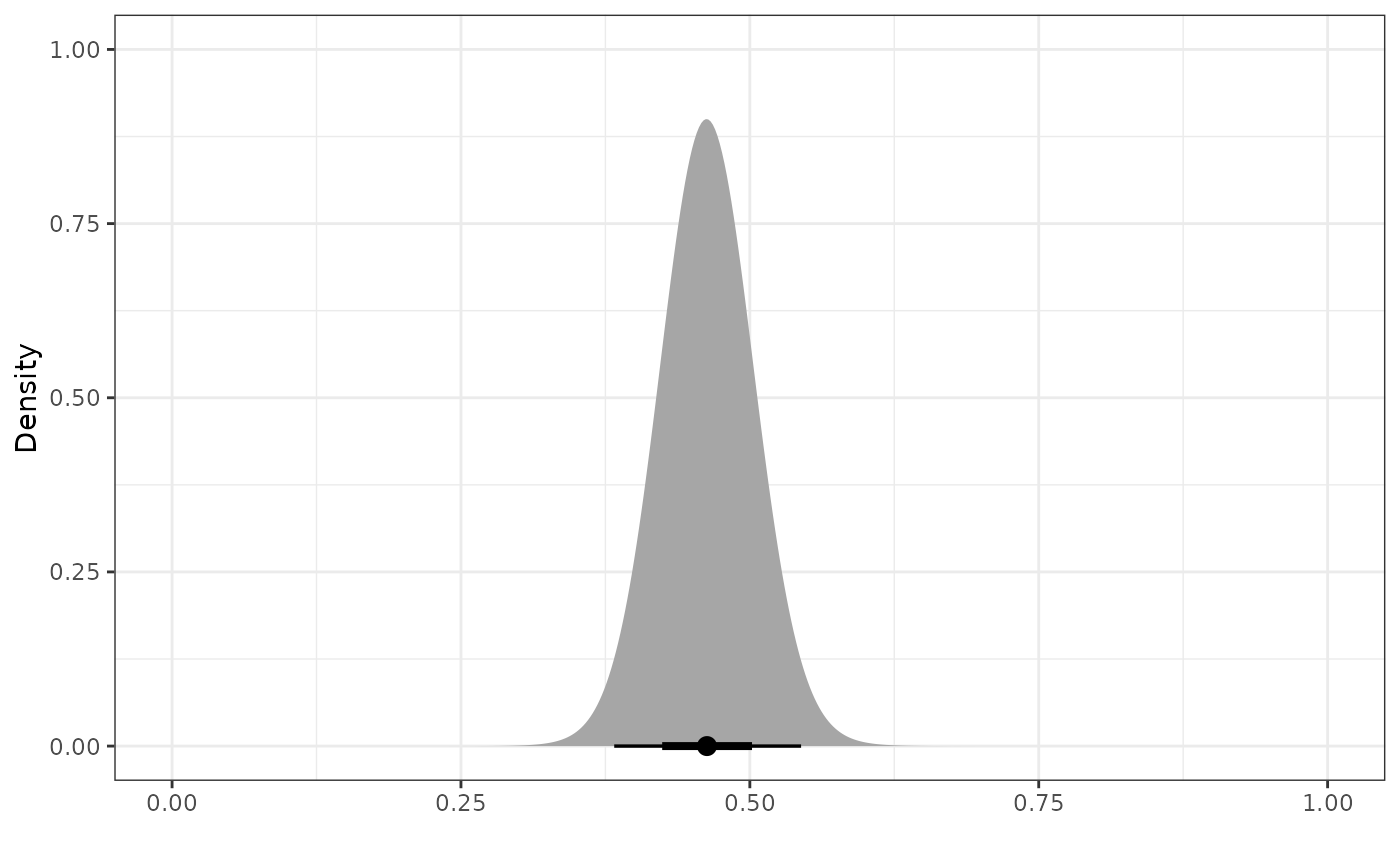
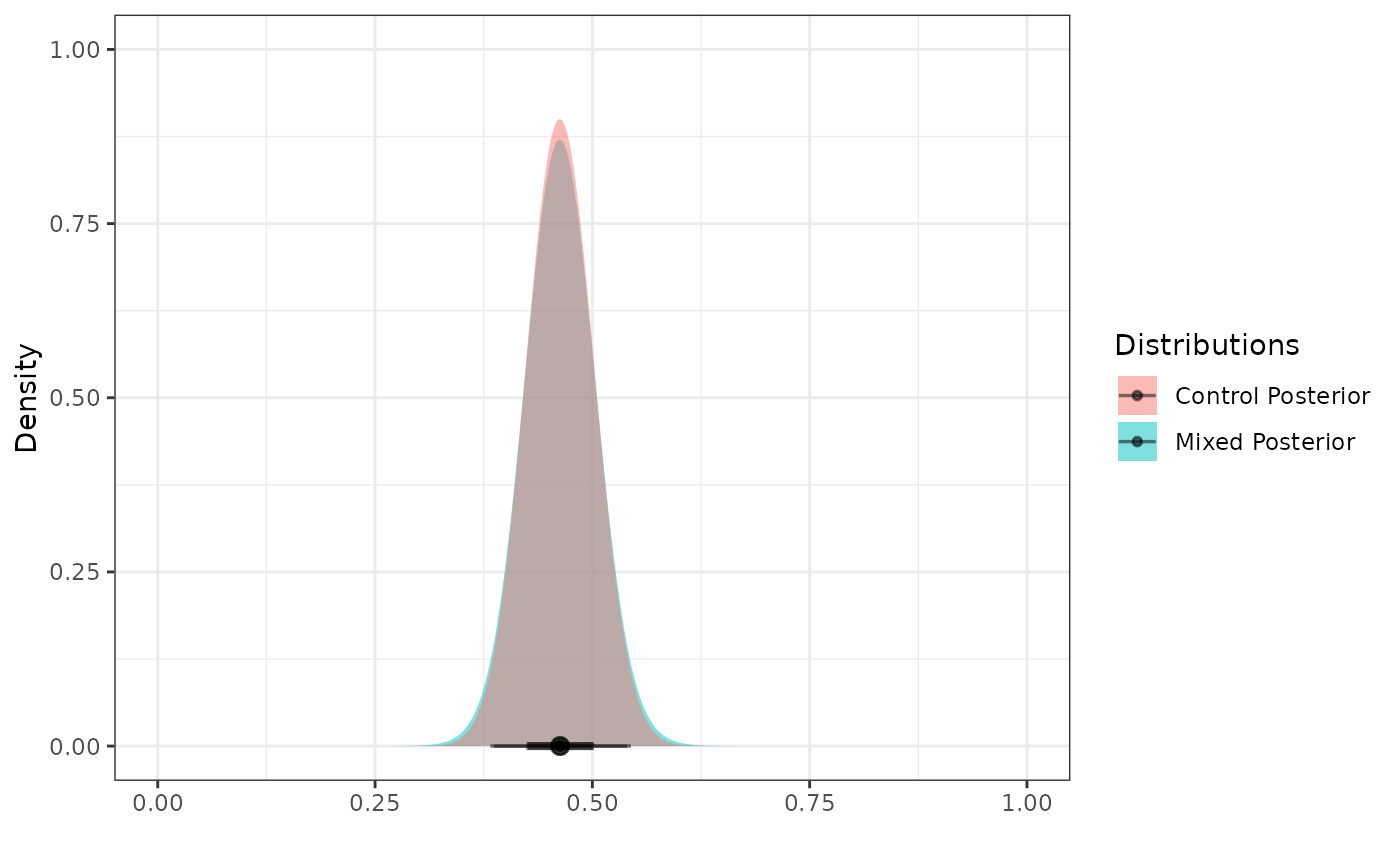
Deploying to gh-pages from @ GSK-Biostatistics/beastt@24b3213e9f87e37dad4a760fd4961f524cdbebdf 🚀

diff --git a/reference/robustify_norm.html b/reference/robustify_norm.html
@@ -1,0 +1,121 @@
+<!DOCTYPE html>
+<!-- Generated by pkgdown: do not edit by hand --><html lang="en"><head><meta http-equiv="Content-Type" content="text/html; charset=UTF-8"><meta charset="utf-8"><meta http-equiv="X-UA-Compatible" content="IE=edge"><meta name="viewport" content="width=device-width, initial-scale=1.0"><title>Robustify Normal Distributions — robustify_norm • beastt</title><!-- jquery --><script src="https://cdnjs.cloudflare.com/ajax/libs/jquery/3.7.1/jquery.min.js" integrity="sha512-v2CJ7UaYy4JwqLDIrZUI/4hqeoQieOmAZNXBeQyjo21dadnwR+8ZaIJVT8EE2iyI61OV8e6M8PP2/4hpQINQ/g==" crossorigin="anonymous" referrerpolicy="no-referrer"></script><!-- Bootstrap --><link rel="stylesheet" href="https://cdnjs.cloudflare.com/ajax/libs/twitter-bootstrap/3.4.1/css/bootstrap.min.css" integrity="sha256-bZLfwXAP04zRMK2BjiO8iu9pf4FbLqX6zitd+tIvLhE=" crossorigin="anonymous"><script src="https://cdnjs.cloudflare.com/ajax/libs/twitter-bootstrap/3.4.1/js/bootstrap.min.js" integrity="sha256-nuL8/2cJ5NDSSwnKD8VqreErSWHtnEP9E7AySL+1ev4=" crossorigin="anonymous"></script><!-- bootstrap-toc --><link rel="stylesheet" href="../bootstrap-toc.css"><script src="../bootstrap-toc.js"></script><!-- Font Awesome icons --><link rel="stylesheet" href="https://cdnjs.cloudflare.com/ajax/libs/font-awesome/5.12.1/css/all.min.css" integrity="sha256-mmgLkCYLUQbXn0B1SRqzHar6dCnv9oZFPEC1g1cwlkk=" crossorigin="anonymous"><link rel="stylesheet" href="https://cdnjs.cloudflare.com/ajax/libs/font-awesome/5.12.1/css/v4-shims.min.css" integrity="sha256-wZjR52fzng1pJHwx4aV2AO3yyTOXrcDW7jBpJtTwVxw=" crossorigin="anonymous"><!-- clipboard.js --><script src="https://cdnjs.cloudflare.com/ajax/libs/clipboard.js/2.0.6/clipboard.min.js" integrity="sha256-inc5kl9MA1hkeYUt+EC3BhlIgyp/2jDIyBLS6k3UxPI=" crossorigin="anonymous"></script><!-- headroom.js --><script src="https://cdnjs.cloudflare.com/ajax/libs/headroom/0.11.0/headroom.min.js" integrity="sha256-AsUX4SJE1+yuDu5+mAVzJbuYNPHj/WroHuZ8Ir/CkE0=" crossorigin="anonymous"></script><script src="https://cdnjs.cloudflare.com/ajax/libs/headroom/0.11.0/jQuery.headroom.min.js" integrity="sha256-ZX/yNShbjqsohH1k95liqY9Gd8uOiE1S4vZc+9KQ1K4=" crossorigin="anonymous"></script><!-- pkgdown --><link href="../pkgdown.css" rel="stylesheet"><script src="../pkgdown.js"></script><meta property="og:title" content="Robustify Normal Distributions — robustify_norm"><meta property="og:description" content="Adds vague normal component, where the level of vagueness is controlled by
+the n parameter"><!-- mathjax --><script src="https://cdnjs.cloudflare.com/ajax/libs/mathjax/2.7.5/MathJax.js" integrity="sha256-nvJJv9wWKEm88qvoQl9ekL2J+k/RWIsaSScxxlsrv8k=" crossorigin="anonymous"></script><script src="https://cdnjs.cloudflare.com/ajax/libs/mathjax/2.7.5/config/TeX-AMS-MML_HTMLorMML.js" integrity="sha256-84DKXVJXs0/F8OTMzX4UR909+jtl4G7SPypPavF+GfA=" crossorigin="anonymous"></script><!--[if lt IE 9]>
+<script src="https://oss.maxcdn.com/html5shiv/3.7.3/html5shiv.min.js"></script>
+<script src="https://oss.maxcdn.com/respond/1.4.2/respond.min.js"></script>
+<![endif]--></head><body data-spy="scroll" data-target="#toc">
+    
+
+    <div class="container template-reference-topic">
+      <header><div class="navbar navbar-default navbar-fixed-top" role="navigation">
+  <div class="container">
+    <div class="navbar-header">
+      <button type="button" class="navbar-toggle collapsed" data-toggle="collapse" data-target="#navbar" aria-expanded="false">
+        <span class="sr-only">Toggle navigation</span>
+        <span class="icon-bar"></span>
+        <span class="icon-bar"></span>
+        <span class="icon-bar"></span>
+      </button>
+      <span class="navbar-brand">
+        <a class="navbar-link" href="../index.html">beastt</a>
+        <span class="version label label-default" data-toggle="tooltip" data-placement="bottom" title="">0.0.0.9000</span>
+      </span>
+    </div>
+
+    <div id="navbar" class="navbar-collapse collapse">
+      <ul class="nav navbar-nav"><li>
+  <a href="../reference/index.html">Reference</a>
+</li>
+<li class="dropdown">
+  <a href="#" class="dropdown-toggle" data-toggle="dropdown" role="button" data-bs-toggle="dropdown" aria-expanded="false">
+    Articles
+     
+    <span class="caret"></span>
+  </a>
+  <ul class="dropdown-menu" role="menu"><li>
+      <a href="../articles/binary.html">Binary Endpoint Case - Borrowing from an External Control Arm</a>
+    </li>
+    <li>
+      <a href="../articles/continuous.html">Normal Endpoint Case with Assumed Known SD - Borrowing from an External Control Arm</a>
+    </li>
+    <li>
+      <a href="../articles/introduction.html">Package Introduction</a>
+    </li>
+  </ul></li>
+      </ul><ul class="nav navbar-nav navbar-right"></ul></div><!--/.nav-collapse -->
+  </div><!--/.container -->
+</div><!--/.navbar -->
+
+      
+
+      </header><div class="row">
+  <div class="col-md-9 contents">
+    <div class="page-header">
+    <h1>Robustify Normal Distributions</h1>
+    
+    <div class="hidden name"><code>robustify_norm.Rd</code></div>
+    </div>
+
+    <div class="ref-description">
+    <p>Adds vague normal component, where the level of vagueness is controlled by
+the <code>n</code> parameter</p>
+    </div>
+
+    <div id="ref-usage">
+    <div class="sourceCode"><pre class="sourceCode r"><code><span><span class="fu">robustify_norm</span><span class="op">(</span><span class="va">prior</span>, <span class="va">n</span>, weights <span class="op">=</span> <span class="fu"><a href="https://rdrr.io/r/base/c.html" class="external-link">c</a></span><span class="op">(</span><span class="fl">0.5</span>, <span class="fl">0.5</span><span class="op">)</span><span class="op">)</span></span></code></pre></div>
+    </div>
+
+    <div id="arguments">
+    <h2>Arguments</h2>
+    <dl><dt>prior</dt>
+<dd><p>Normal distributional object</p></dd>
+
+
+<dt>n</dt>
+<dd><p>Number of theoretical participants</p></dd>
+
+
+<dt>weights</dt>
+<dd><p>Vector of weights, where the first number corresponds to the
+informative component and the second is the vague</p></dd>
+
+</dl></div>
+    <div id="value">
+    <h2>Value</h2>
+    
+
+<p>mixture distribution</p>
+    </div>
+
+    <div id="ref-examples">
+    <h2>Examples</h2>
+    <div class="sourceCode"><pre class="sourceCode r"><code><span class="r-in"><span><span class="kw"><a href="https://rdrr.io/r/base/library.html" class="external-link">library</a></span><span class="op">(</span><span class="va"><a href="https://pkg.mitchelloharawild.com/distributional/" class="external-link">distributional</a></span><span class="op">)</span></span></span>
+<span class="r-in"><span><span class="fu">robustify_norm</span><span class="op">(</span><span class="fu"><a href="https://pkg.mitchelloharawild.com/distributional/reference/dist_normal.html" class="external-link">dist_normal</a></span><span class="op">(</span><span class="fl">0</span>,<span class="fl">1</span><span class="op">)</span>, n <span class="op">=</span> <span class="fl">15</span><span class="op">)</span></span></span>
+<span class="r-out co"><span class="r-pr">#&gt;</span> &lt;distribution[1]&gt;</span>
+<span class="r-out co"><span class="r-pr">#&gt;</span> [1] mixture(n=2)</span>
+</code></pre></div>
+    </div>
+  </div>
+  <div class="col-md-3 hidden-xs hidden-sm" id="pkgdown-sidebar">
+    <nav id="toc" data-toggle="toc" class="sticky-top"><h2 data-toc-skip>Contents</h2>
+    </nav></div>
+</div>
+
+
+      <footer><div class="copyright">
+  <p></p><p>Developed by Christina Fillmore, Ben Arancibia, Nate Bean, GlaxoSmithKline Research &amp; Development Limited.</p>
+</div>
+
+<div class="pkgdown">
+  <p></p><p>Site built with <a href="https://pkgdown.r-lib.org/" class="external-link">pkgdown</a> 2.0.9.</p>
+</div>
+
+      </footer></div>
+
+  
+
+
+  
+
+  </body></html>
+

diff --git a/articles/continuous.html b/articles/continuous.html
@@ -293,17 +293,14 @@ be a mixture of normal components. If any component of the prior is a
 <span class="math inline">\(t\)</span> distribution, the prior will be
 approximated with the mixture of two normal distributions.</p>
 <div class="sourceCode" id="cb8"><pre class="downlit sourceCode r">
-<code class="sourceCode R"><span><span class="va">prior_param</span> <span class="op">&lt;-</span> <span class="fu"><a href="https://pkg.mitchelloharawild.com/distributional/reference/parameters.html" class="external-link">parameters</a></span><span class="op">(</span><span class="va">pwr_prior</span><span class="op">)</span></span>
-<span><span class="va">mixed_prior</span> <span class="op">&lt;-</span> <span class="fu"><a href="https://pkg.mitchelloharawild.com/distributional/reference/dist_mixture.html" class="external-link">dist_mixture</a></span><span class="op">(</span><span class="va">pwr_prior</span>,</span>
-<span>                            <span class="fu"><a href="https://pkg.mitchelloharawild.com/distributional/reference/dist_normal.html" class="external-link">dist_normal</a></span><span class="op">(</span><span class="va">prior_param</span><span class="op">$</span><span class="va">mu</span>, <span class="fu"><a href="https://rdrr.io/r/base/MathFun.html" class="external-link">sqrt</a></span><span class="op">(</span><span class="va">prior_param</span><span class="op">$</span><span class="va">sigma</span><span class="op">^</span><span class="fl">2</span><span class="op">*</span><span class="va">n_external</span><span class="op">)</span><span class="op">)</span>,</span>
-<span>                            weights <span class="op">=</span>  <span class="fu"><a href="https://rdrr.io/r/base/c.html" class="external-link">c</a></span><span class="op">(</span><span class="fl">.5</span>, <span class="fl">.5</span><span class="op">)</span></span>
-<span><span class="op">)</span></span>
+<code class="sourceCode R"><span><span class="va">mixed_prior</span> <span class="op">&lt;-</span> <span class="fu"><a href="../reference/robustify_norm.html">robustify_norm</a></span><span class="op">(</span><span class="va">pwr_prior</span>, <span class="va">n_external</span><span class="op">)</span></span>
 <span></span>
 <span><span class="va">post_mixed</span> <span class="op">&lt;-</span> <span class="fu"><a href="../reference/calc_post_norm.html">calc_post_norm</a></span><span class="op">(</span><span class="va">ps_obj</span>,</span>
 <span>                             response <span class="op">=</span> <span class="va">y</span>, </span>
 <span>                             prior<span class="op">=</span> <span class="va">mixed_prior</span>,</span>
 <span>                             internal_sd <span class="op">=</span> <span class="va">sd_internal_control</span><span class="op">)</span></span>
-<span><span class="fu"><a href="../reference/plot_dist.html">plot_dist</a></span><span class="op">(</span><span class="va">post_mixed</span><span class="op">)</span></span></code></pre></div>
+<span><span class="fu"><a href="../reference/plot_dist.html">plot_dist</a></span><span class="op">(</span><span class="st">"Control Posterior"</span> <span class="op">=</span> <span class="va">post</span>, </span>
+<span>          <span class="st">"Mixed Posterior"</span> <span class="op">=</span> <span class="va">post_mixed</span><span class="op">)</span></span></code></pre></div>
 <p><img src="continuous_files/figure-html/unnamed-chunk-7-1.png" width="700"></p>
 <p>Lastly, we can also create a posterior distribution for the mean of
 the active treatment arm by reading the internal data directly into the
@@ -319,7 +316,10 @@ data.</strong></p>
 <span>                               response <span class="op">=</span> <span class="va">y</span>,</span>
 <span>                               prior <span class="op">=</span> <span class="fu"><a href="https://pkg.mitchelloharawild.com/distributional/reference/dist_normal.html" class="external-link">dist_normal</a></span><span class="op">(</span><span class="fl">50</span>, <span class="fl">10</span><span class="op">)</span>,</span>
 <span>                               internal_sd <span class="op">=</span> <span class="va">sd_internal_treated</span><span class="op">)</span></span>
-<span><span class="fu"><a href="../reference/plot_dist.html">plot_dist</a></span><span class="op">(</span><span class="va">post_treated</span><span class="op">)</span></span></code></pre></div>
+<span></span>
+<span><span class="fu"><a href="../reference/plot_dist.html">plot_dist</a></span><span class="op">(</span><span class="st">"Control Posterior"</span> <span class="op">=</span> <span class="va">post</span>, </span>
+<span>          <span class="st">"Mixed Posterior"</span> <span class="op">=</span> <span class="va">post_mixed</span>,</span>
+<span>          <span class="st">"Treatment Posterior"</span> <span class="op">=</span> <span class="va">post_treated</span><span class="op">)</span></span></code></pre></div>
 <p><img src="continuous_files/figure-html/unnamed-chunk-8-1.png" width="700"></p>
   </div>
 

diff --git a/articles/binary.html b/articles/binary.html
@@ -275,7 +275,8 @@ posterior distribution will also be a mixture of beta components.</p>
 <span><span class="va">post_mixed</span> <span class="op">&lt;-</span> <span class="fu"><a href="../reference/calc_post_beta.html">calc_post_beta</a></span><span class="op">(</span><span class="va">ps_obj</span>,</span>
 <span>                             response <span class="op">=</span> <span class="va">y</span>,</span>
 <span>                             prior <span class="op">=</span> <span class="va">mix_prior</span><span class="op">)</span></span>
-<span><span class="fu"><a href="../reference/plot_dist.html">plot_dist</a></span><span class="op">(</span><span class="va">post_mixed</span><span class="op">)</span></span></code></pre></div>
+<span><span class="fu"><a href="../reference/plot_dist.html">plot_dist</a></span><span class="op">(</span><span class="st">"Control Posterior"</span> <span class="op">=</span> <span class="va">post</span>, </span>
+<span>          <span class="st">"Mixed Posterior"</span> <span class="op">=</span> <span class="va">post_mixed</span><span class="op">)</span></span></code></pre></div>
 <p><img src="binary_files/figure-html/unnamed-chunk-7-1.png" width="700"></p>
 <p>Lastly, we can also create a posterior distribution for the response
 rate of the active treatment arm by reading the internal data directly
@@ -288,7 +289,9 @@ data.</strong></p>
 <code class="sourceCode R"><span><span class="va">post_treated</span> <span class="op">&lt;-</span> <span class="fu"><a href="../reference/calc_post_beta.html">calc_post_beta</a></span><span class="op">(</span>internal_data <span class="op">=</span> <span class="fu"><a href="https://dplyr.tidyverse.org/reference/filter.html" class="external-link">filter</a></span><span class="op">(</span><span class="va">int_binary_df</span>, <span class="va">trt</span> <span class="op">==</span> <span class="fl">1</span><span class="op">)</span>,</span>
 <span>                               response <span class="op">=</span> <span class="va">y</span>,</span>
 <span>                               prior <span class="op">=</span> <span class="fu"><a href="https://pkg.mitchelloharawild.com/distributional/reference/dist_beta.html" class="external-link">dist_beta</a></span><span class="op">(</span><span class="fl">0.5</span>, <span class="fl">0.5</span><span class="op">)</span><span class="op">)</span></span>
-<span><span class="fu"><a href="../reference/plot_dist.html">plot_dist</a></span><span class="op">(</span><span class="va">post_treated</span><span class="op">)</span></span></code></pre></div>
+<span><span class="fu"><a href="../reference/plot_dist.html">plot_dist</a></span><span class="op">(</span><span class="st">"Control Posterior"</span> <span class="op">=</span> <span class="va">post</span>, </span>
+<span>          <span class="st">"Mixed Posterior"</span> <span class="op">=</span> <span class="va">post_mixed</span>,</span>
+<span>          <span class="st">"Treatment Posterior"</span> <span class="op">=</span> <span class="va">post_treated</span><span class="op">)</span></span></code></pre></div>
 <p><img src="binary_files/figure-html/unnamed-chunk-8-1.png" width="700"></p>
   </div>
 

diff --git a/reference/index.html b/reference/index.html
@@ -113,6 +113,10 @@
           <p><code><a href="prop_scr_love.html">prop_scr_love()</a></code> </p>
         </td>
         <td><p>Love Plot of the Absolute Standardized Mean Differences</p></td>
+      </tr><tr><td>
+          <p><code><a href="robustify_norm.html">robustify_norm()</a></code> </p>
+        </td>
+        <td><p>Robustify Normal Distributions</p></td>
       </tr></tbody></table></div>
 
   <div class="col-md-3 hidden-xs hidden-sm" id="pkgdown-sidebar">
